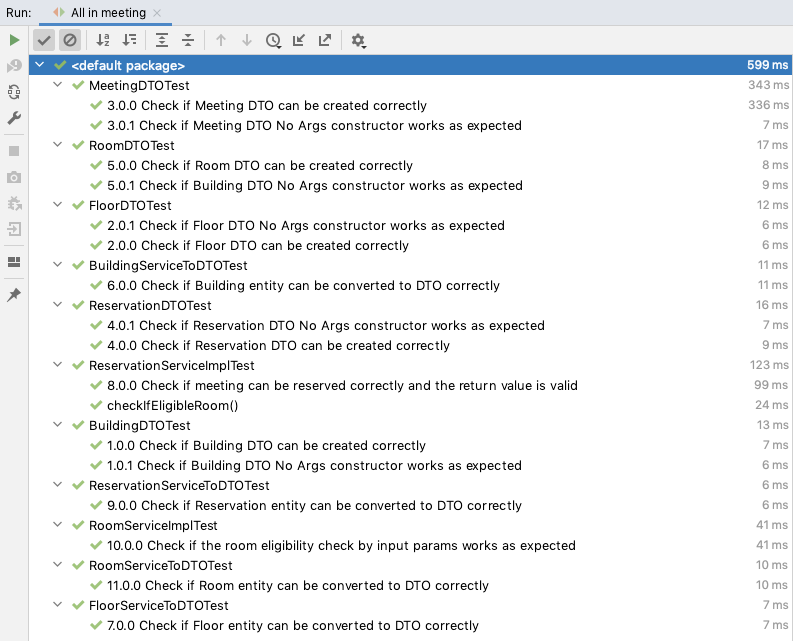
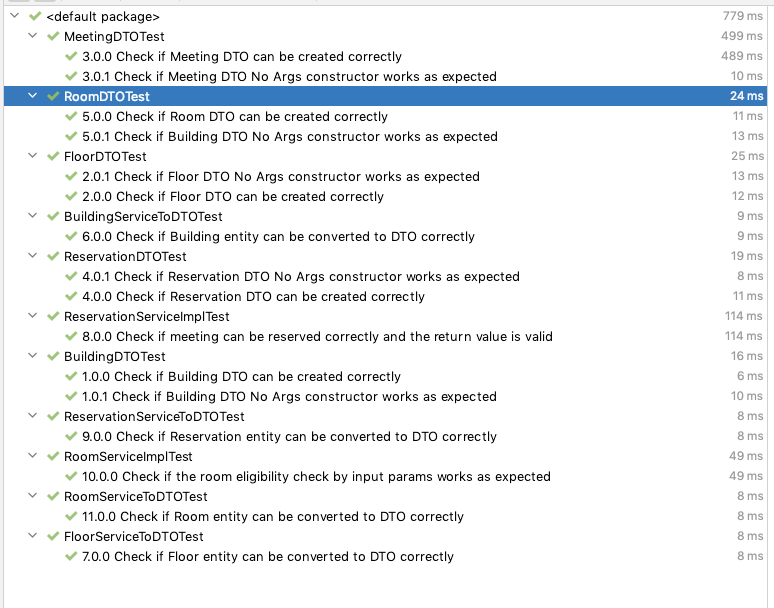
Unnecessary empty test was removed from Reservation tests

Changed region(s): [[0.0, 0.0, 1.0, 1.0]]

diff --git a/src/test/java/com/globant/meeting/service/ReservationServiceImplTest.java b/src/test/java/com/globant/meeting/service/ReservationServiceImplTest.java
@@ -43,9 +43,4 @@ public class ReservationServiceImplTest {
         assert reservation != null && reservationService.getReservationById(reservation.getId()).equals(reservation);
     }
 
-    @Test
-    void checkIfEligibleRoom() {
-
-    }
-
 }
